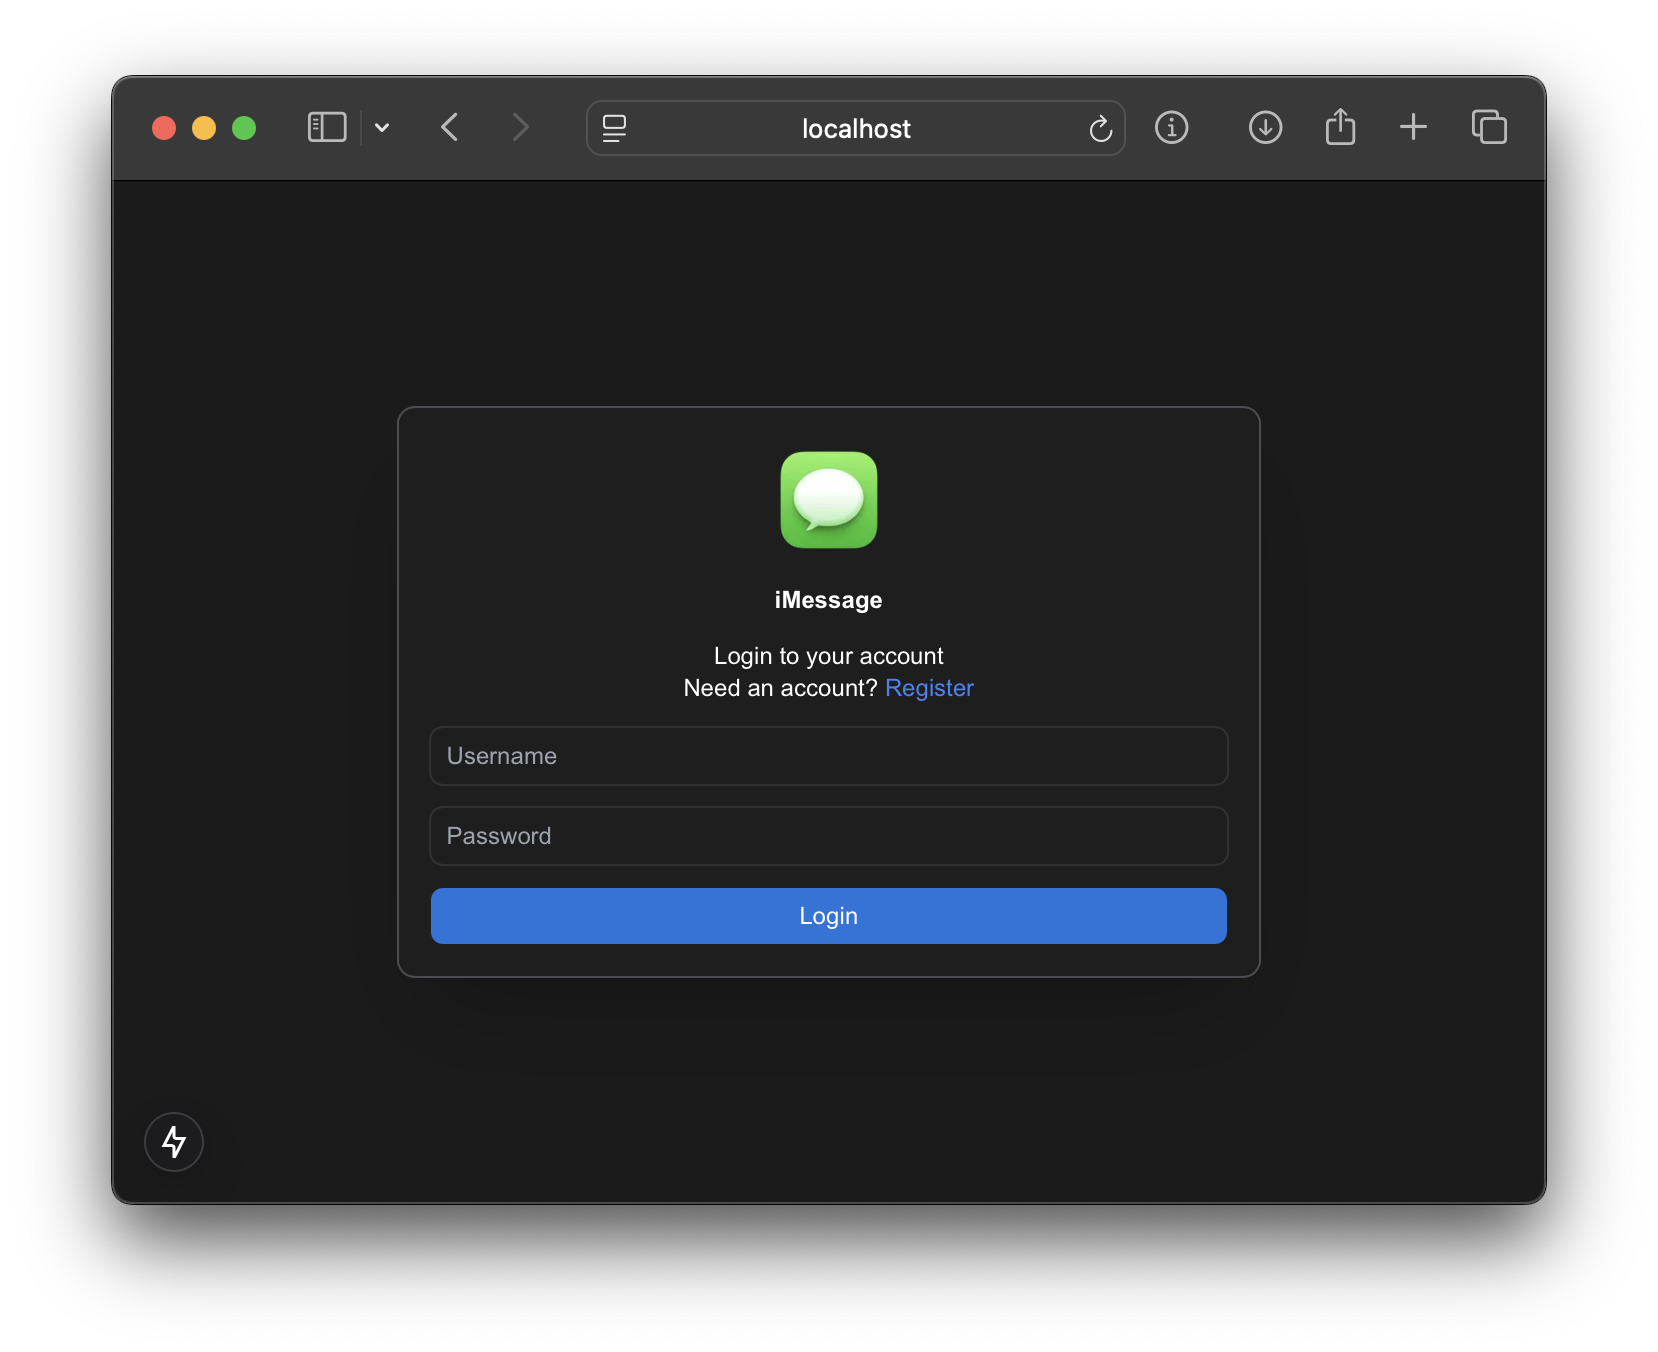
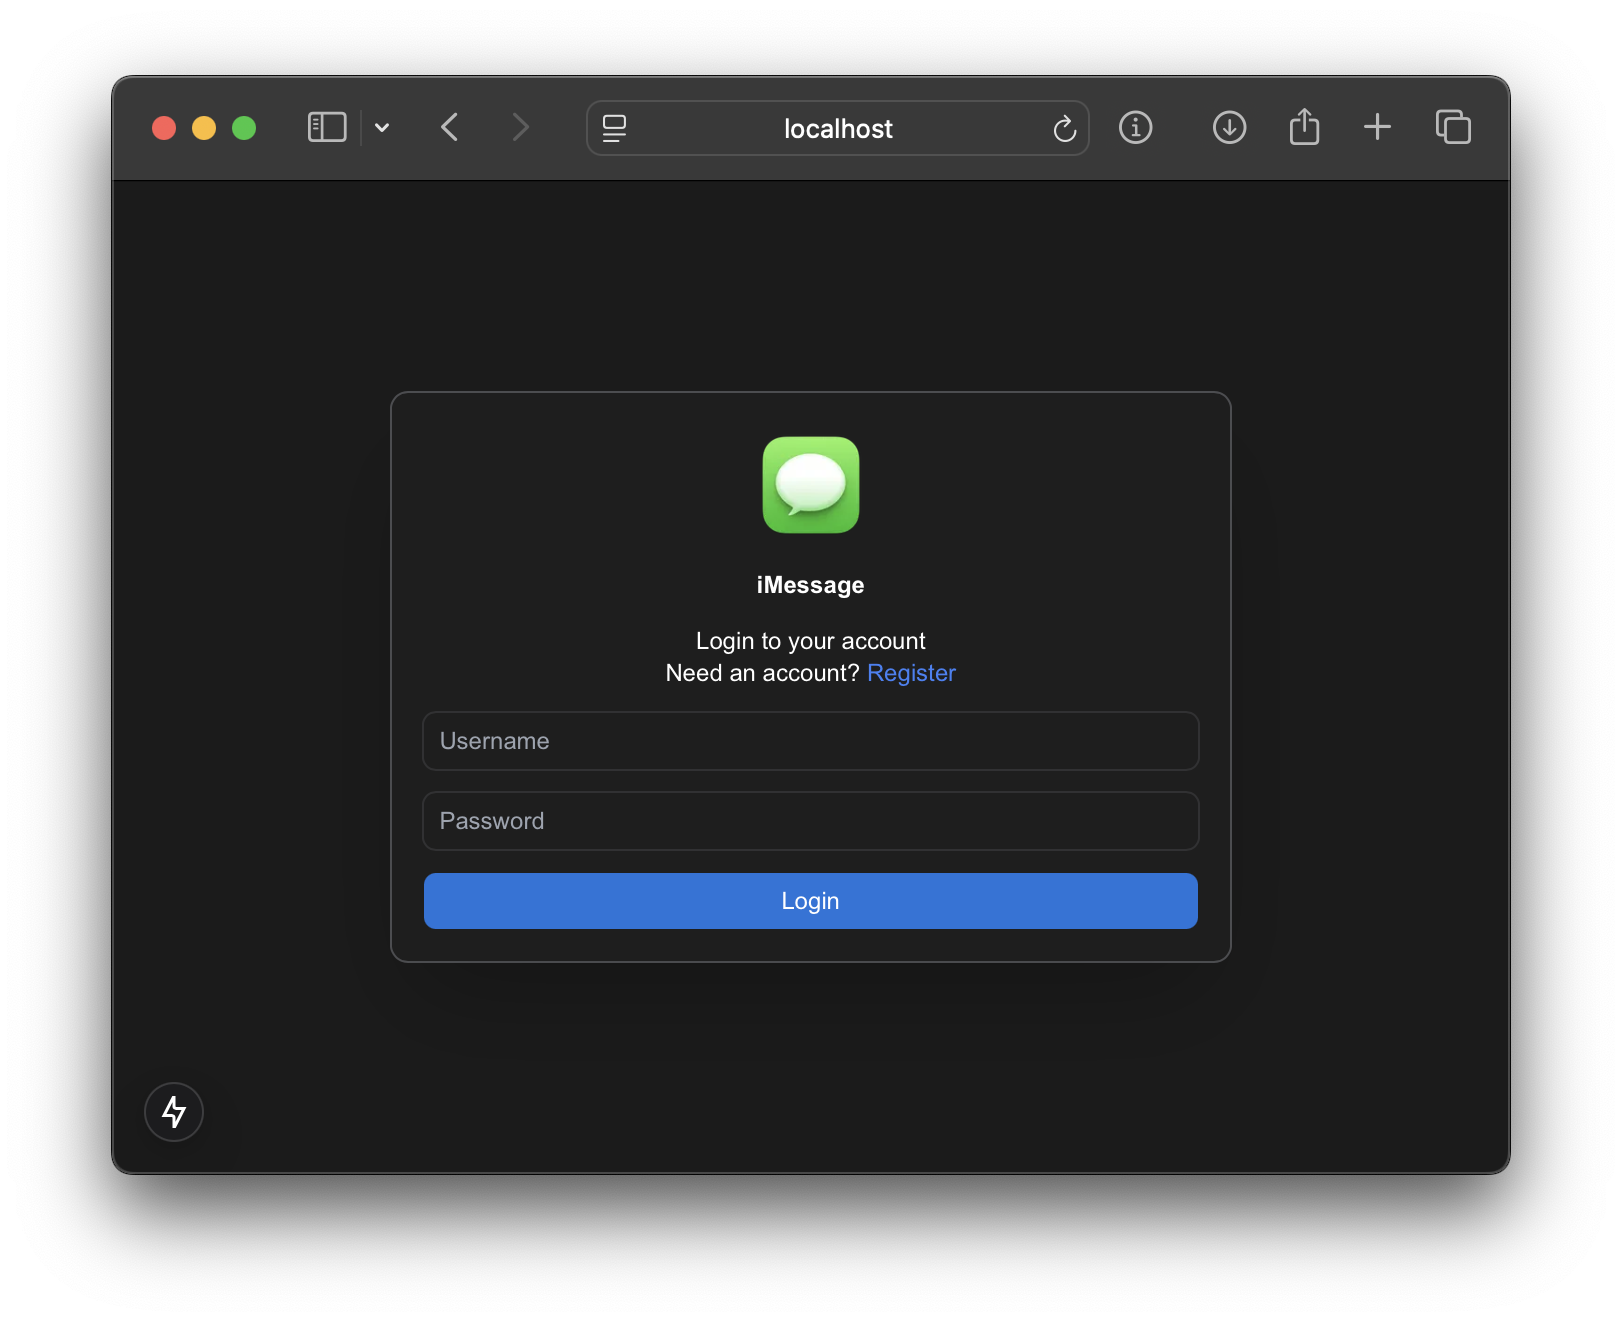
update README

diff --git a/README.md b/README.md
@@ -32,8 +32,4 @@ Built with Next.js 15 and Tailwind CSS.
 ## Demo
 
 <img width="640" height="480" src="./demo/login.png">
-
-<video width="640" height="480" autoplay >
-  <source src="./demo/chat.mp4" type="video/mp4">
-Your browser does not support the video tag.
-</video>
+<img width="640" height="480" src="./demo/chat.png">
